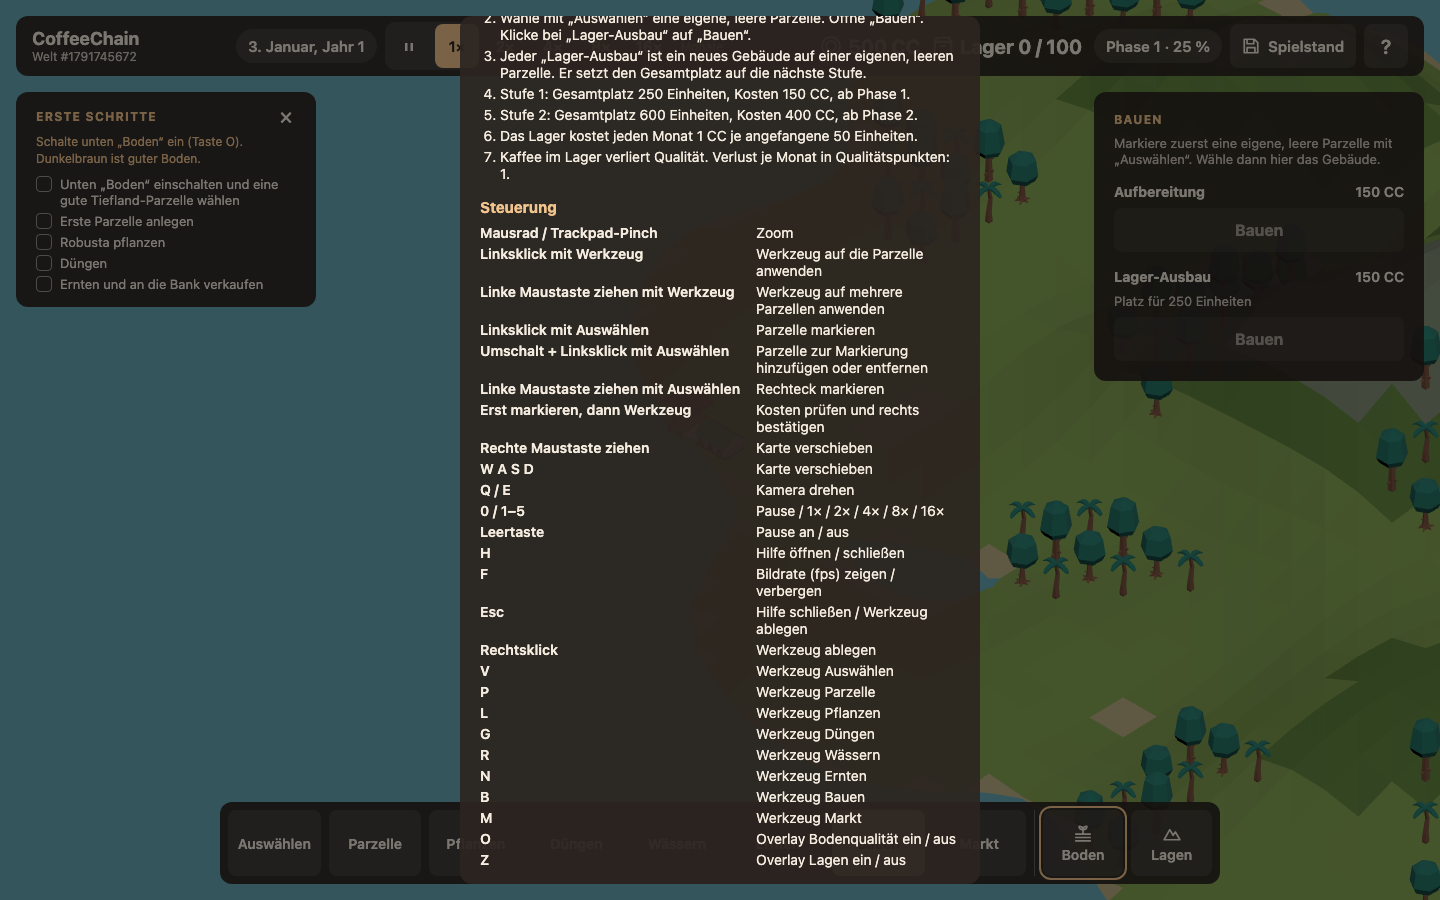
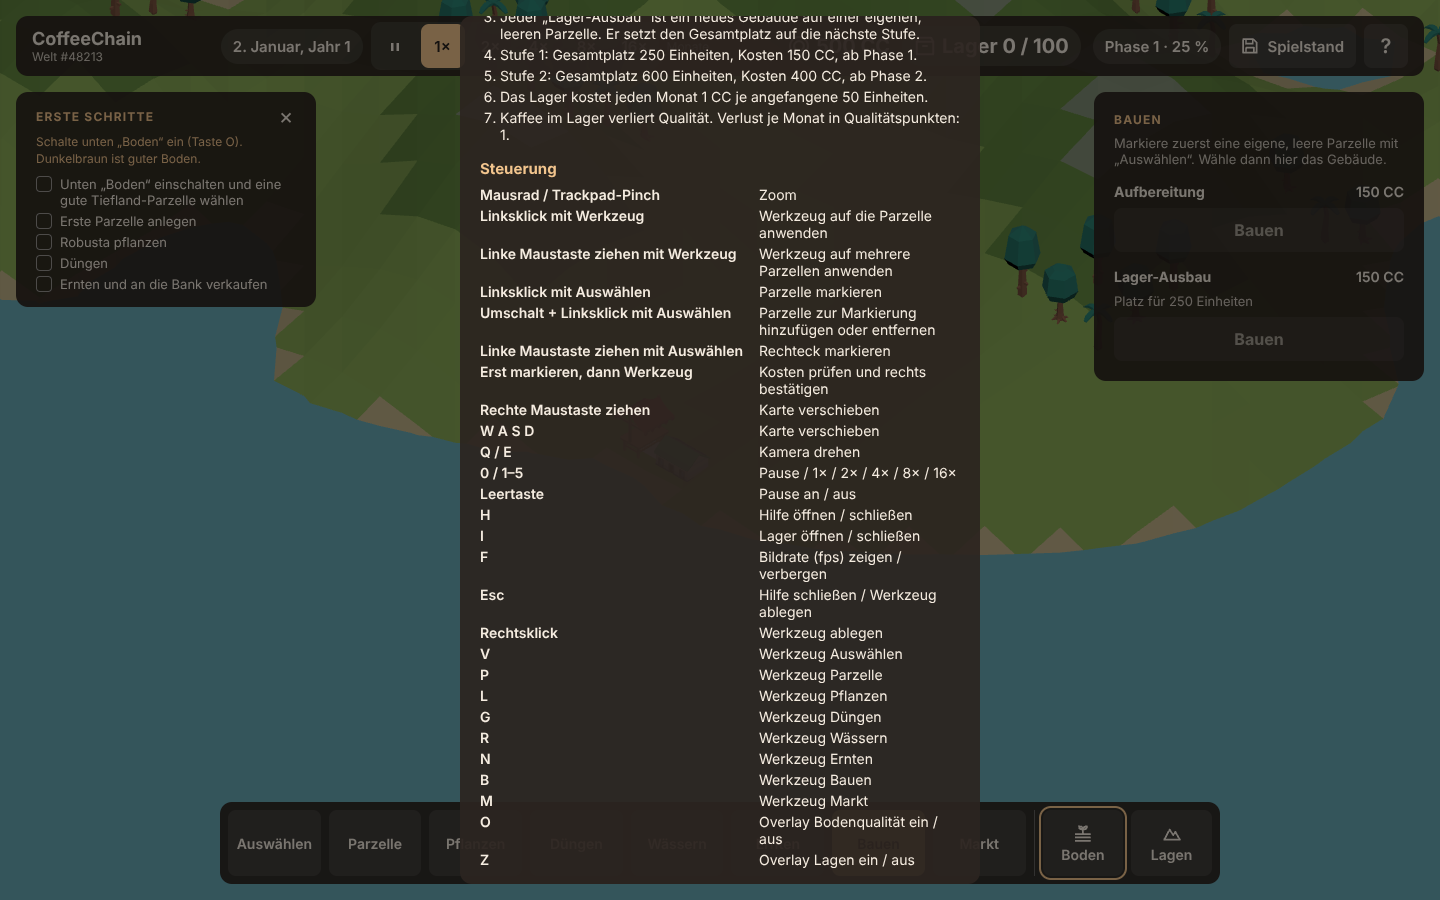
feat(ui): open the storage panel with the I key
S is taken by the camera pan, so the panel uses I (Inventar), as Robert
agreed in #34. The help lists the key.

Claude-Session: https://claude.ai/code/session_014MKSABpTGuhpcDJGZWGX3Q

diff --git a/src/app/toolKeys.test.ts b/src/app/toolKeys.test.ts
@@ -4,7 +4,7 @@ import { isBuildable } from '../sim/farm/parcels'
 import type { GameState } from '../sim/state'
 import { useSelectionStore } from './selection'
 import { useGameStore } from './store'
-import { installToolKeys, overlayForKey, toolForKey } from './toolKeys'
+import { installToolKeys, isStorageKey, overlayForKey, toolForKey } from './toolKeys'
 import { useViewStore } from './view'
 
 vi.stubGlobal('location', { search: '?seed=42' })
@@ -144,5 +144,16 @@ describe('installToolKeys (S53)', () => {
     view.helpOpen = false
     press('o')
     expect(view.overlay).toBe('none')
+  })
+})
+
+describe('isStorageKey (#9)', () => {
+  it('I toggles the storage panel, unless the player types or the help is open', () => {
+    expect(isStorageKey('i', false, false)).toBe(true)
+    expect(isStorageKey('I', false, false)).toBe(true)
+    expect(isStorageKey('i', true, false)).toBe(false)
+    expect(isStorageKey('i', false, true)).toBe(false)
+    for (const key of [...Object.keys(map), ...other])
+      expect(isStorageKey(key, false, false)).toBe(false)
   })
 })

diff --git a/src/app/toolKeys.ts b/src/app/toolKeys.ts
@@ -21,6 +21,10 @@ export function overlayForKey(
   return overlays.find((overlay) => overlay.key === key.toUpperCase())?.id
 }
 
+// I opens or closes the storage panel.
+export const isStorageKey = (key: string, typing: boolean, helpOpen: boolean) =>
+  !typing && !helpOpen && key.toUpperCase() === 'I'
+
 export function installToolKeys(
   view: ReturnType<typeof useViewStore>,
   selection: ReturnType<typeof useSelectionStore>,
@@ -33,5 +37,6 @@ export function installToolKeys(
     if (id) pickTool(selection, store.state as GameState, id)
     const overlay = overlayForKey(event.key, typing, view.helpOpen)
     if (overlay) view.toggle(overlay)
+    if (isStorageKey(event.key, typing, view.helpOpen)) view.toggleStorage()
   })
 }

diff --git a/src/ui/HelpOverlay.test.ts b/src/ui/HelpOverlay.test.ts
@@ -85,7 +85,7 @@ describe('tool keys and tooltips (S53)', () => {
     const controls = html.split('data-testid="help-controls"')[1]!.split('</dl>')[0]!
     const rows = [...controls.matchAll(/<dt[^>]*>([^<]*)<\/dt><dd[^>]*>([^<]*)<\/dd>/g)]
     const old = rows.length - tools.length - overlays.length
-    expect(old).toBe(16)
+    expect(old).toBe(17)
     expect(rows.slice(old, old + tools.length).map((m) => [m[1], m[2]])).toEqual(
       tools.map((tool) => [tool.key, `Werkzeug ${tool.label}`]),
     )

diff --git a/e2e/screenshot.spec.ts b/e2e/screenshot.spec.ts
@@ -2122,5 +2122,10 @@ for (const [width, height] of [
     await page.getByTestId('storage-to-market').click()
     await expect(panel).toHaveCount(0)
     await expect(page.getByTestId('tool-market')).toHaveAttribute('aria-pressed', 'true')
+    // The I key opens and closes the panel.
+    await page.keyboard.press('i')
+    await expect(panel).toBeVisible()
+    await page.keyboard.press('i')
+    await expect(panel).toHaveCount(0)
   })
 }

diff --git a/src/ui/Hud.vue b/src/ui/Hud.vue
@@ -130,6 +130,7 @@ const phaseText = computed(() => {
             :title="storageText.full"
             :aria-label="storageText.full"
             :aria-pressed="view.storageOpen"
+            aria-keyshortcuts="I"
             @click="view.toggleStorage()"
           >
             <svg viewBox="0 0 16 16" width="22" height="22" aria-hidden="true">
